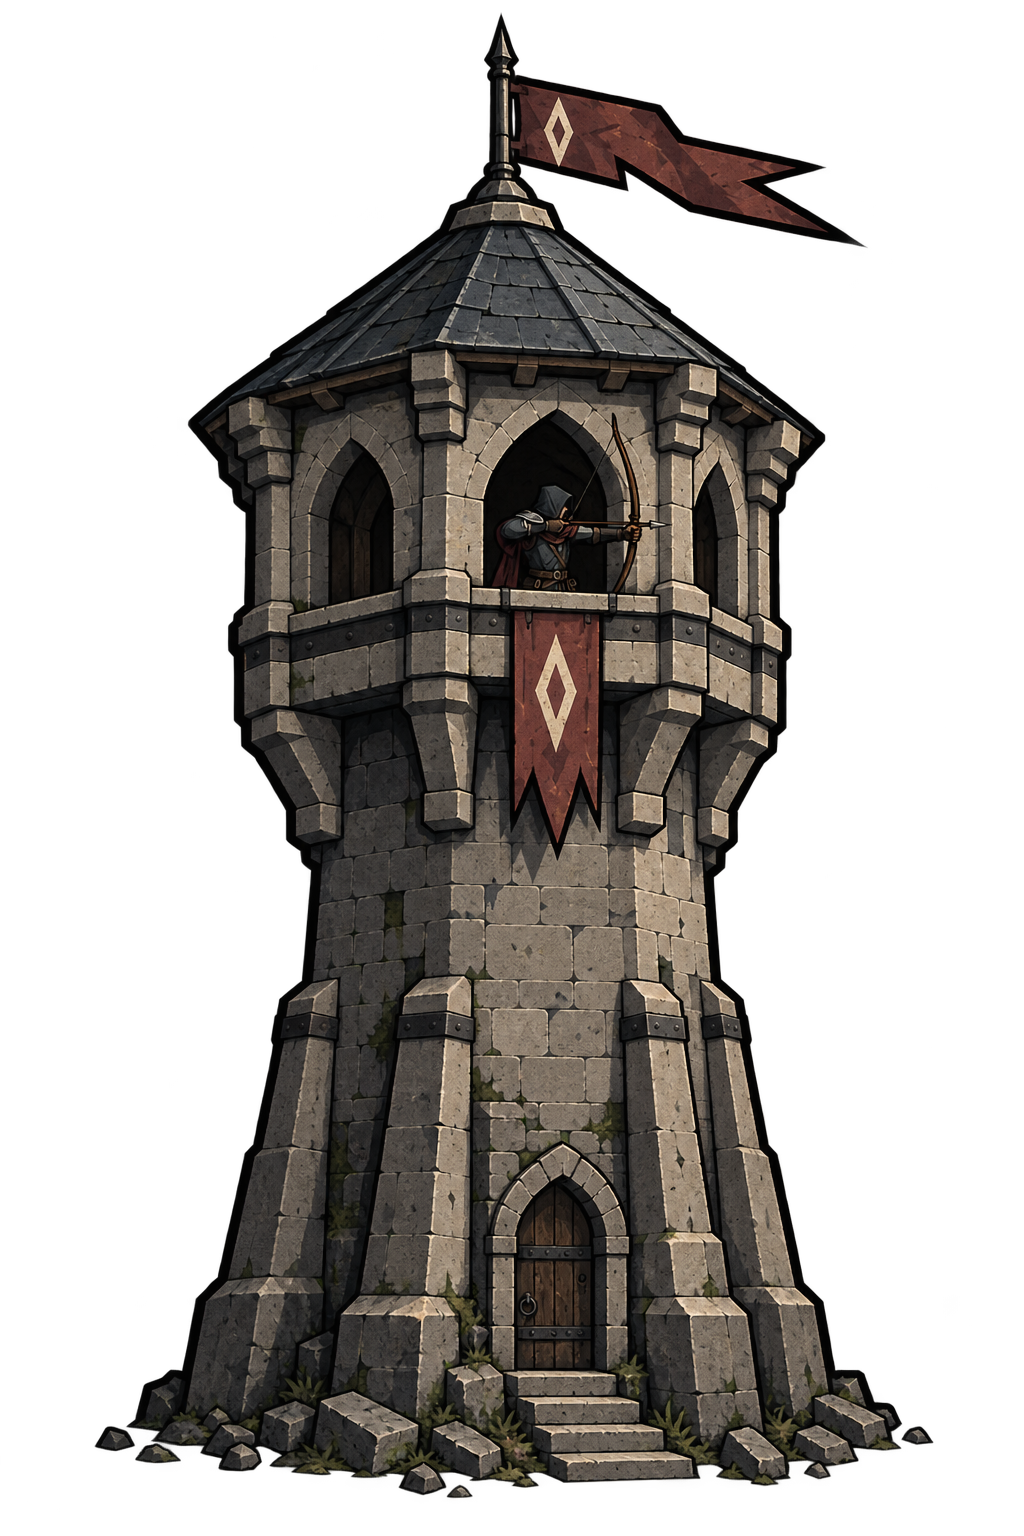
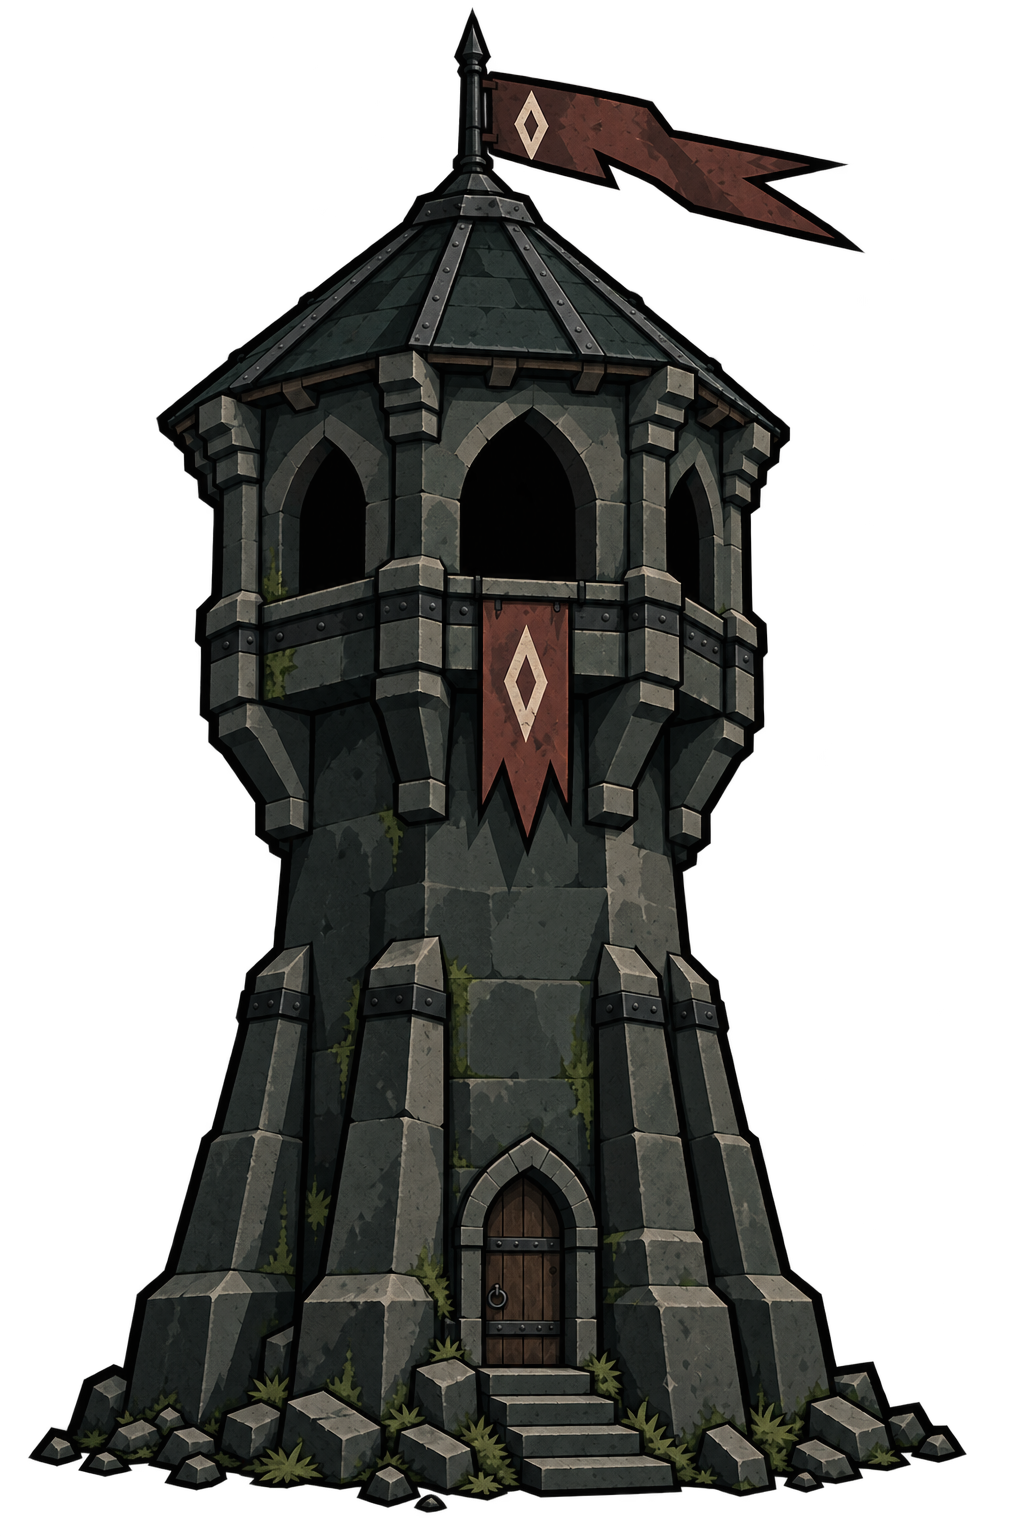
Revise Gloamwatch progression with dark Pickard palette and hidden defenders

diff --git a/docs/concepts/gloamwatch/README.md b/docs/concepts/gloamwatch/README.md
@@ -1,105 +1,58 @@
 # Gloamwatch — The Arrow Watchtower
 
-Concept proposal, September 17, 2026. This sheet does not replace runtime art,
-rename the live catalog, or change combat balance.
+Revised concept family, September 17, 2026. Concept artwork only; runtime art,
+content IDs, names, and combat balance remain unchanged.
 
-![Gloamwatch exterior and firing-gallery cutaway](gloamwatch-concept.png)
+## Current design
 
-## Identity
+Progress from basic to supported to fortified. Every window is an opaque
+pitch-black recess with no visible archer, face, eyes, hands, bow or interior
+objects. **No arrows or projectiles are baked into any image.**
 
-A lone watchman holds the road from a weathered stone tower, loosing disciplined
-bowfire into approaching foes. Swift arrows thin lesser enemies and finish the
-wounded. Gloamwatch evokes a watch kept through the fading light: endurance,
-isolation, and a human defender rather than an automatic needle launcher.
-This description preserves the requested role; it does not add execution damage
-or new targeting rules.
-
-## Source hierarchy
-
-- `docs/APP_STYLE_THEME.md`: primary image style, supported by the tier-one tower
-  reference and Pickard main-menu image.
-- `docs/ART_DIRECTION.md`: world identity and reusable rendering context.
-- `docs/UI_THEME.md` and `docs/UI_STYLE_GUIDE.md`: dark UI surfaces, warm readable
-  text, compact native portraits, and shared control geometry. Artwork contours
-  remain independent of the UI's one-unit borders.
-- User-supplied dark fantasy collage: cold slate, lonely archers, aged watchtowers,
-  and somber atmosphere. Its photographic treatment and vivid purple/red skies
-  do not supersede the project's graphic illustration style.
-
-## Construction and palette
-
-A tapered stone shaft and buttressed rock footing support a projecting covered
-firing gallery. Stone corbels carry the gallery; timber supports its slate roof.
-Large pointed arches, narrow load-bearing piers, and waist-high sills provide
-cover while leaving room to use a longbow. A hooded watchman, a worn oxblood
-banner, and a pale diamond connect the structure to Pickard's world.
-
-Use charcoal green shadows, muted cold slate, warm gray stone, dull iron,
-dark timber, bone highlights, and restrained oxblood cloth. Preserve broad
-facets and heavy silhouettes. The concept's masonry is more detailed than a
-phone-sized production asset should be: remove small courses and roof seams
-before reducing the gallery opening or the readable bow silhouette.
-
-## Practical firing design
-
-The watchman stands on a continuous timber deck beside a ladder hatch, with
-headroom for an upright longbow and space behind the drawing elbow. Arrows
-leave at shoulder height through an open arch, above the sill. The cutaway
-removes the near wall for explanation; it is not an exposed side in the final
-building. Keep the bow limbs clear of the roof and sill.
-
-For implementation, choose the gallery window facing the target and place the
-archer and projectile outlet together at that opening. Account for front/back
-occlusion; never rotate the building or fire arrows through its piers. A lone
-archer changing windows is a presentation abstraction, not extra simultaneous
-crew or a new combat mechanic. Validate all target bearings and close targets.
-Use a wood shaft, pale fletching, and iron arrowhead rather than a glowing dart.
-
-## Upgrade family proposal
-
-- Tier 1: the essential shaft, covered gallery, watchman, and small banner.
-- Tier 2: stronger corbels, iron sill fittings, and reinforced lower masonry.
-- Tier 3: broader protected gallery and stronger buttresses; preserve bow space.
-- Existing frost specialization: restrained cold arrow and quiver accents.
-- Existing poison specialization: restrained mineral-green arrow and quiver accents.
-
-Keep the existing `rapid` save identity and branch IDs. Compose the family in a
-shared stateless art owner used by battlefield, build strip, portraits, and
-upgrade previews. Before shipping, check those surfaces at 360x640, 390x844,
-and 540x960, including the longer display name and directional arrow origins.
-
-## Generated progression illustrations
-
-The five standalone illustrations retain the approved gallery, lone archer,
-slate roof, oxblood heraldry, and compact crumbly stone footing. They are concept
-assets, not runtime replacements. Branch labels below map to the existing
-specializations without changing their names, IDs, or mechanics.
-
-| Stage | Illustration | Visual progression |
+| Stage | Illustration | Construction |
 | --- | --- | --- |
-| Level 1 | [Gloamwatch](level-1.png) | Essential covered watchtower and simple corbels |
-| Level 2 | [Reinforced Gloamwatch](level-2.png) | Stronger corbels, iron fittings, reinforced lower masonry |
-| Level 3 | [Fortified Gloamwatch](level-3.png) | Broad protected gallery, heavier collar and buttresses |
-| Tier 4: Frostneedle | [Frost branch](tier-4-frost.png) | Cold window fittings, compact frost deposits and ice-tipped arrows |
-| Tier 4: Poison Arrow | [Poison branch](tier-4-poison.png) | Thornlike fittings, protected poison supplies and green-tipped arrows |
+| Tier 1 | [Basic Gloamwatch](level-1.png) | Plain shaft and simple roof, no external supports or armor |
+| Tier 2 | [Supported Gloamwatch](level-2.png) | Timber gallery braces and slim lower supports |
+| Tier 3 | [Fortified Gloamwatch](level-3.png) | Heavy corbels, buttresses, iron collar and protected gallery |
+| Tier 4: Frostneedle | [Frost branch](tier-4-frost.png) | Fortified structure with cold fittings and compact frost |
+| Tier 4: Poison Arrow | [Poison branch](tier-4-poison.png) | Exterior venom reservoirs, thorn growth, poison drips and fungi |
 
-The shared foundation guidance and reusable prompt now live in
-[`APP_STYLE_THEME.md`](../../APP_STYLE_THEME.md#tower-foundations-reusable-prompt).
-Keep the stones close and low; the original sheet's scenic hillside is not a
-required tower footprint. Full prompts for these five built-in image-generation
-calls are recorded in [progression-prompts.md](progression-prompts.md).
+Poison is deliberately stronger than the first proposal while remaining a
+stone watchtower with black windows and a clear doorway.
 
-All five PNGs were visually reviewed together for family resemblance, increasing
-fortification, branch distinctions, and compact foundations. Each is 1024x1536
-with an alpha channel and transparent corner pixels. These are concept-scale
-illustrations; final sprite cleanup, directional firing poses and in-game
-portrait-size verification remain part of future runtime integration.
+## Pickard style authority
 
-## Provenance and review
+The final pass uses [Pickard's main-menu artwork](../../../assets/ui/pickard-menu-background.png)
+directly as an image reference. Match its dark foreground rocks, iron and ruins:
+charcoal-green and soot foundations, broad angular matte planes, heavy black
+contours, quiet print grain, dark oxblood cloth and small aged-bone accents.
+Stone is predominantly dark green-gray rather than pale beige masonry. Reduce
+fine brick detailing before compromising silhouette and window clarity.
 
-Created with the built-in image-generation tool using the user collage and the
-two project reference images. The exact submitted prompt is in `prompt.txt`.
-The generated sheet was visually inspected for style, silhouette, and the
-cutaway's floor, access, and bow path. It is an illustrated design explanation,
-not a measured architectural drawing or a runtime-tested asset. Generated
-captions and scenery are presentation only and must not be baked into a sprite.
+The art authorities are `docs/APP_STYLE_THEME.md` and `docs/ART_DIRECTION.md`.
+The matching app palette and UI integration belong to `docs/UI_THEME.md` and
+`docs/UI_STYLE_GUIDE.md`; artwork does not inherit fixed UI border widths.
+
+Retain the [shared crumbly-foundation prompt](../../APP_STYLE_THEME.md#tower-foundations-reusable-prompt):
+small stones build into lower walls and taper into scattered fragments, without
+a large terrain mound or altered gameplay placement footprint.
+
+## Future runtime integration
+
+Keep the `rapid`, `frostneedle`, and `thorn_volley` identities and combat rules.
+Use a shared stateless art family for battlefield, previews and portraits.
+During attacks, the first visible arrow should appear just outside the active
+black window, above its sill and clear of masonry. Projectiles remain separate
+from static tower artwork; the shooter stays hidden. Validate target bearings,
+occlusion and portrait layouts at 360x640, 390x844 and 540x960 when integrating.
+
+## Provenance
+
+Built-in image generation revised each prior tower's architecture, then used
+that revision plus the Pickard image for the final dark, projectile-free pass.
+Exact prompts are in [revision-prompts.md](revision-prompts.md).
+
+The [original concept](gloamwatch-concept.png), [original prompt](prompt.txt) and
+[first progression prompts](progression-prompts.md) are historical references.
+Their visible archers, brighter masonry and subtle poison directions are
+superseded. These illustrations are not runtime- or device-tested sprites.

diff --git a/docs/concepts/gloamwatch/revision-prompts.md b/docs/concepts/gloamwatch/revision-prompts.md
@@ -1,0 +1,31 @@
+# Revised Gloamwatch prompts
+
+## Final authoritative style pass — all five stages
+
+The later user correction supersedes the arrow instructions in the intermediate prompts below. Each final edit uses its revised tower as image 1 and `assets/ui/pickard-menu-background.png` as image 2. Final images contain no projectiles or visible occupants.
+
+undefined
+
+## Intermediate architectural pass (superseded for palette and arrows)
+
+Built-in image-generation edits of the corresponding first-pass PNGs. These supersede the visible-archer and subtle-poison instructions in the earlier prompts.
+
+## level-1
+
+Edit this Gloamwatch tower illustration to satisfy the revised brief. Preserve the heavy ink stylized 2D dark fantasy, angular matte stone, slate roof, oxblood diamond heraldry, modest crumbly stone footing, camera and transparent background. Single whole tower with margin, no text. CRITICAL ALL WINDOWS are solid pitch-black opaque recesses: absolutely NO visible archer, person, face, eyes, hands, bow, quiver or interior furnishings. Remove the existing person and bow entirely. Show ONE physical flying arrow entirely OUTSIDE and just beyond the right-facing gallery window, aligned at window mid-height pointing outward right with clear gap from wall; visually implies a hidden shooter, no arrow embedded in masonry. Leave generous room at right for arrow. Keep windows black even for elemental variants. Dramatically simplify into a VERY BASIC starting structure. A plain narrow stone shaft, modest small pointed-arch windows flush with upper wall, simple short slate cap, little wooden door and two steps, tiny oxblood pennant. Remove ALL buttresses, external supports, projecting gallery, heavy corbels, iron bands, armor, elaborate trim and hanging banner. The roof rests directly on plain shaft. Sparse large masonry shapes. Only a few small stones at ground. This must visibly read as the cheapest simplest tier, not a fortified keep. Plain wooden arrow with iron tip.
+
+## level-2
+
+Edit this Gloamwatch tower illustration to satisfy the revised brief. Preserve the heavy ink stylized 2D dark fantasy, angular matte stone, slate roof, oxblood diamond heraldry, modest crumbly stone footing, camera and transparent background. Single whole tower with margin, no text. CRITICAL ALL WINDOWS are solid pitch-black opaque recesses: absolutely NO visible archer, person, face, eyes, hands, bow, quiver or interior furnishings. Remove the existing person and bow entirely. Show ONE physical flying arrow entirely OUTSIDE and just beyond the right-facing gallery window, aligned at window mid-height pointing outward right with clear gap from wall; visually implies a hidden shooter, no arrow embedded in masonry. Leave generous room at right for arrow. Keep windows black even for elemental variants. A middle-tier SUPPORTED watchtower, noticeably stronger than a plain unsupported shaft but not a fortress: modest projecting window gallery with clearly visible dark timber diagonal braces beneath it, two slim lower stone supports, simple slate roof and modest oxblood banner. Remove the current heavy stone corbels and heavy armored collar. Avoid massive buttresses, double stone supports, heavy iron armor or parapet defenses; reserve those for tier 3. Plain wooden arrow with iron tip.
+
+## level-3
+
+Edit this Gloamwatch tower illustration to satisfy the revised brief. Preserve the heavy ink stylized 2D dark fantasy, angular matte stone, slate roof, oxblood diamond heraldry, modest crumbly stone footing, camera and transparent background. Single whole tower with margin, no text. CRITICAL ALL WINDOWS are solid pitch-black opaque recesses: absolutely NO visible archer, person, face, eyes, hands, bow, quiver or interior furnishings. Remove the existing person and bow entirely. Show ONE physical flying arrow entirely OUTSIDE and just beyond the right-facing gallery window, aligned at window mid-height pointing outward right with clear gap from wall; visually implies a hidden shooter, no arrow embedded in masonry. Leave generous room at right for arrow. Keep windows black even for elemental variants. Make this clearly FORTIFIED: broad protected projecting gallery on substantial doubled stone corbels, four massive integrated tapered buttresses, thick riveted iron collar and reinforced roof edges, heavier stone window piers. Strong compact fortress silhouette while retaining the original roofed tower identity. Preserve oxblood banner. Strong clear leap from tier 2 timber-supported tower. Plain wooden arrow with iron tip.
+
+## tier-4-frost
+
+Edit this Gloamwatch tower illustration to satisfy the revised brief. Preserve the heavy ink stylized 2D dark fantasy, angular matte stone, slate roof, oxblood diamond heraldry, modest crumbly stone footing, camera and transparent background. Single whole tower with margin, no text. CRITICAL ALL WINDOWS are solid pitch-black opaque recesses: absolutely NO visible archer, person, face, eyes, hands, bow, quiver or interior furnishings. Remove the existing person and bow entirely. Show ONE physical flying arrow entirely OUTSIDE and just beyond the right-facing gallery window, aligned at window mid-height pointing outward right with clear gap from wall; visually implies a hidden shooter, no arrow embedded in masonry. Leave generous room at right for arrow. Keep windows black even for elemental variants. Retain the existing fortified frost branch, ice encrustations, cold blue-gray metal braces, compact icicles and oxblood banner. Strengthen the buttressed masonry and corbels to match a fortified tier 3 base. Remove all human and bow details; ALL windows completely pitch black. The single arrow outside window has a pale ice head. No glow inside windows.
+
+## tier-4-poison
+
+Edit this Gloamwatch tower illustration to satisfy the revised brief. Preserve the heavy ink stylized 2D dark fantasy, angular matte stone, slate roof, oxblood diamond heraldry, modest crumbly stone footing, camera and transparent background. Single whole tower with margin, no text. CRITICAL ALL WINDOWS are solid pitch-black opaque recesses: absolutely NO visible archer, person, face, eyes, hands, bow, quiver or interior furnishings. Remove the existing person and bow entirely. Show ONE physical flying arrow entirely OUTSIDE and just beyond the right-facing gallery window, aligned at window mid-height pointing outward right with clear gap from wall; visually implies a hidden shooter, no arrow embedded in masonry. Leave generous room at right for arrow. Keep windows black even for elemental variants. Push the POISON THEME MUCH FURTHER, clearly dominant specialization: substantial thorny black vines coil around buttresses and gallery supports, large iron-caged green venom reservoirs mounted EXTERNALLY on the tower flanks below gallery, corroded copper fittings and short functional feed tubes, sickly yellow-green poison dripping down outer sill and staining stone, clusters of poisonous green fungi at compact rubble footing, barbed iron eave edges and tattered moss-green secondary cloth beside oxblood diamond banner. Preserve roofed STONE FORTRESS silhouette and doorway, not a bottle-shaped tower. Strong legible green material accents and viscous droplets, graphic matte poison rather than giant neon glow. All gallery windows still pure opaque BLACK, no equipment inside them. Single arrow entirely outside window has green venom-coated barbed tip and two small trailing poison droplets. No person or bow anywhere.
